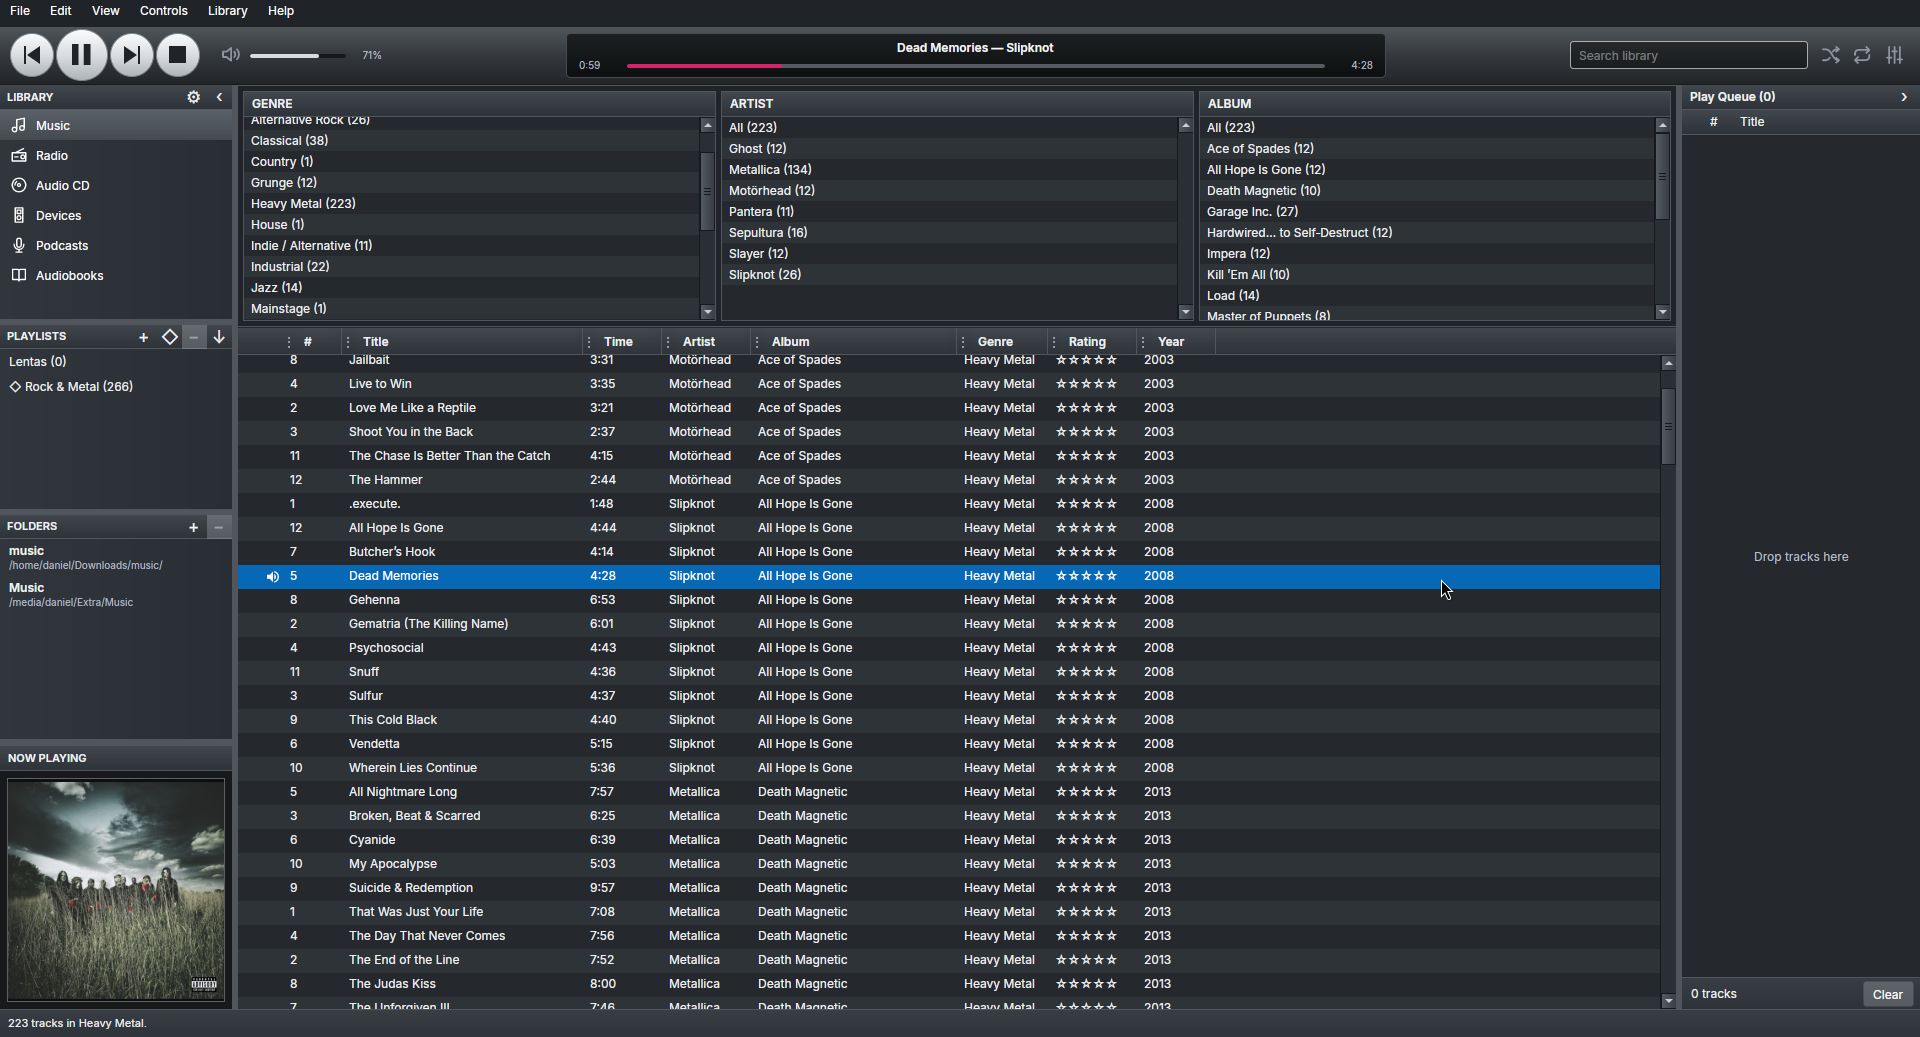
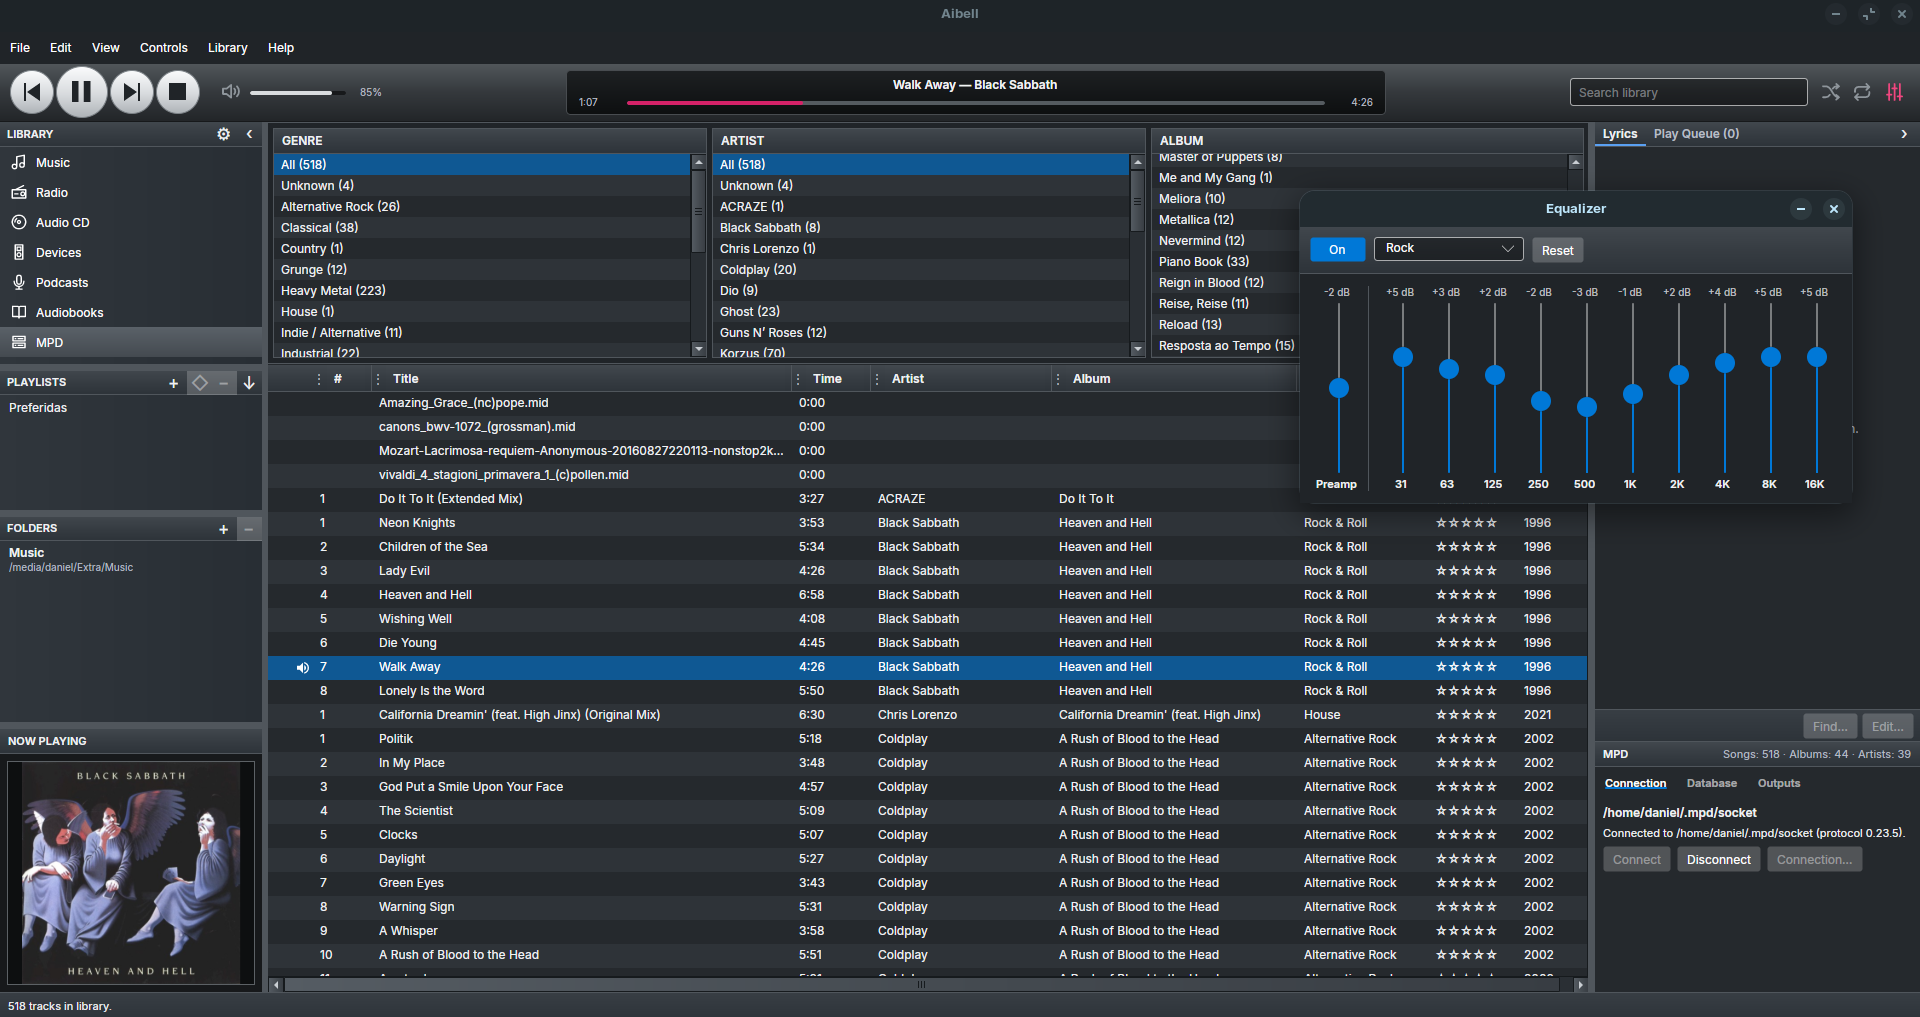
Return SolidColorBrush from the visualizer colour ramp (CA1859)

diff --git a/src/Aibell.Desktop/Controls/SpectrumVisualizer.cs b/src/Aibell.Desktop/Controls/SpectrumVisualizer.cs
@@ -131,13 +131,13 @@ public sealed class SpectrumVisualizer : Control
     private static readonly Color High = Color.Parse("#FF3D8B");
     private static readonly IBrush CapBrush = new SolidColorBrush(Color.Parse("#F4F5F6"));
 
-    private static IBrush Ramp(double t)
+    private static SolidColorBrush Ramp(double t)
     {
         byte Mix(byte a, byte b) => (byte)(a + ((b - a) * t));
         return new SolidColorBrush(Color.FromRgb(Mix(Low.R, High.R), Mix(Low.G, High.G), Mix(Low.B, High.B)));
     }
 
-    private IBrush[] ramp = [];
+    private SolidColorBrush[] ramp = [];
 
     public override void Render(DrawingContext context)
     {
